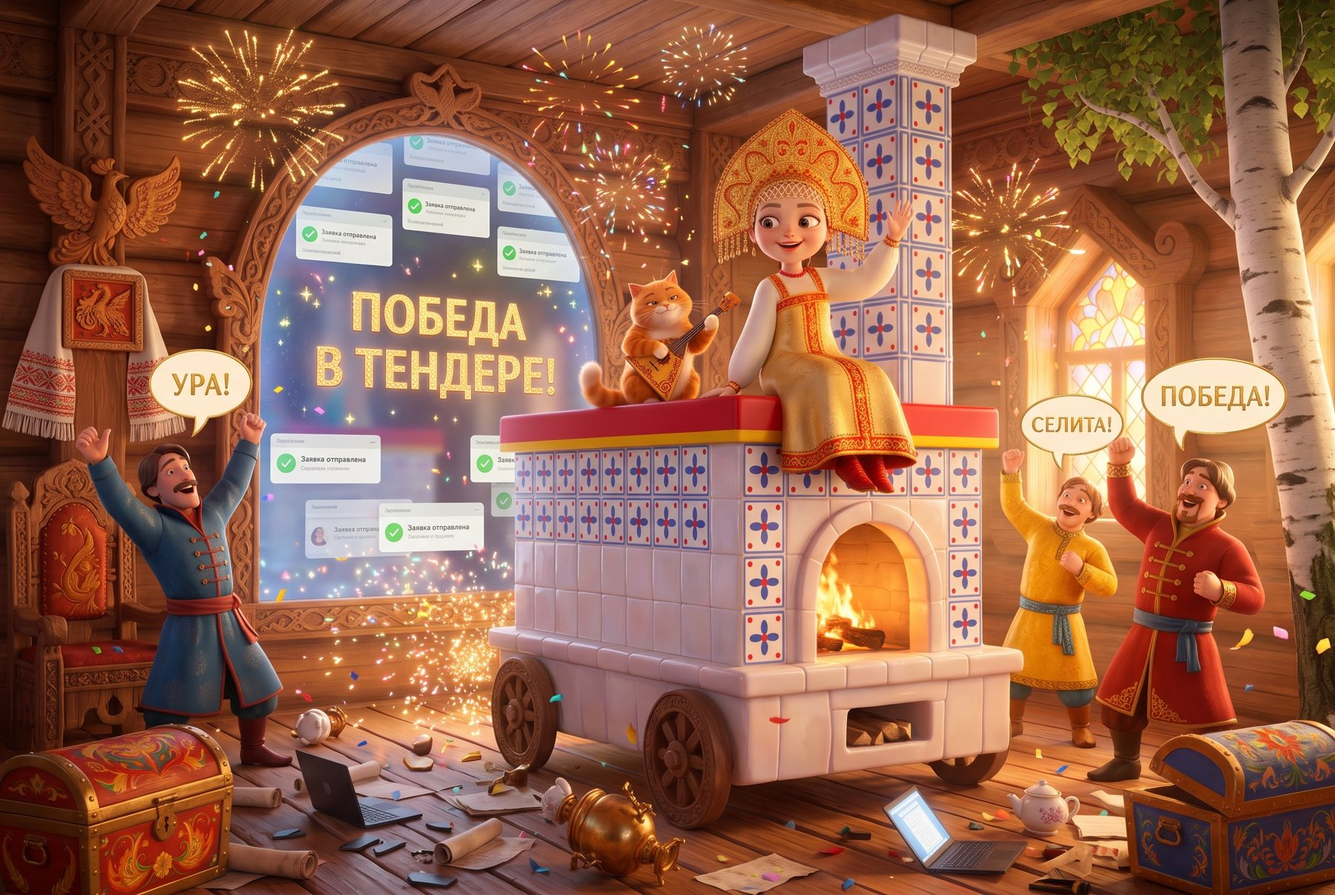
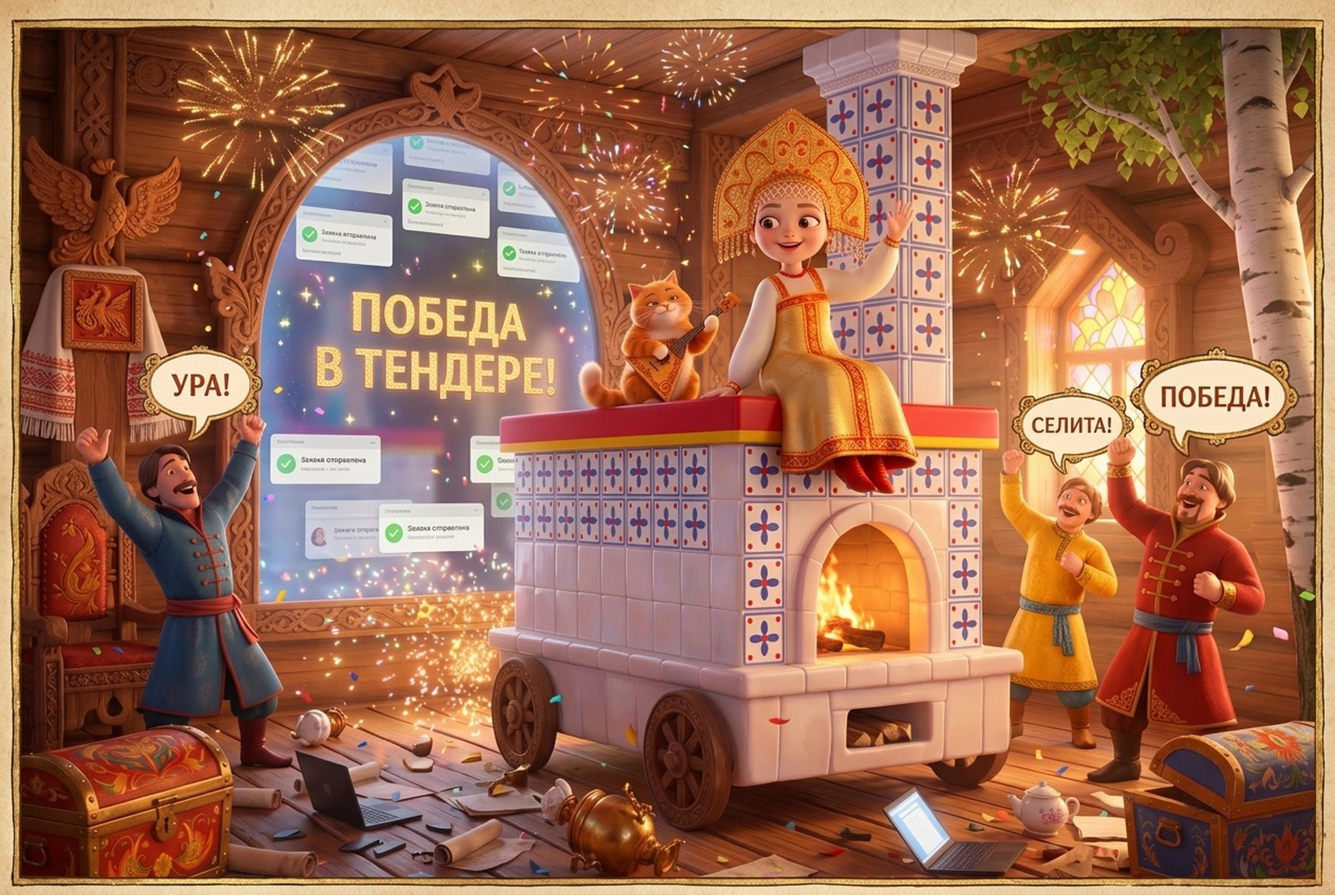
Превью: tender-pech-chistovik

diff --git a/tender-pech-chistovik/index.html b/tender-pech-chistovik/index.html
@@ -2,4 +2,4 @@
 <style>body{margin:0;background:#f6f1e7;font-family:system-ui,sans-serif;color:#222}h1{font-size:28px;margin:24px 16px 4px}p{margin:0 16px 20px;font-size:18px}
 main{display:grid;gap:28px;padding:0 16px 40px;max-width:1400px;margin:auto}figure{margin:0}img{width:100%;border-radius:12px;display:block}
 figcaption{font-size:24px;margin-top:8px}b{display:inline-block;background:#222;color:#fff;border-radius:50%;width:36px;height:36px;text-align:center;line-height:36px;margin-right:8px}</style></head>
-<body><h1>Тендер-печь: чистовая раскадровка</h1><p>Тёплый 3D, фирменная печь. Версия 4: меньше менеджеров, мудрецы 206, 208, 210 говорят по-доброму. Правки пиши по номерам кадров.</p><main><figure><img src="c01-galaktika.jpg?v=2" loading="lazy"><figcaption><b>1</b> Галактика</figcaption></figure><figure><img src="c02-moskva.jpg?v=2" loading="lazy"><figcaption><b>2</b> Полёт к Москве</figcaption></figure><figure><img src="c03-terem.jpg?v=2" loading="lazy"><figcaption><b>3</b> Терем «Тендерный отдел»</figcaption></figure><figure><img src="c04-tron.jpg?v=2" loading="lazy"><figcaption><b>4</b> Мария Прекрасная на троне</figcaption></figure><figure><img src="c04b-gde-smety.jpg?v=2" loading="lazy"><figcaption><b>5</b> «Где сметы?!»</figcaption></figure><figure><img src="c05-orda.jpg?v=4" loading="lazy"><figcaption><b>6</b> Орда менеджеров</figcaption></figure><figure><img src="c06-ploshchadki.jpg?v=2" loading="lazy"><figcaption><b>7</b> Площадки, тендеры уходят</figcaption></figure><figure><img src="c07-skoro.jpg?v=2" loading="lazy"><figcaption><b>8</b> «Скоро будет»</figcaption></figure><figure><img src="c08-mimo206.jpg?v=4" loading="lazy"><figcaption><b>9</b> Изба 206: «Добавим Jarvis!»</figcaption></figure><figure><img src="c09-izba208.jpg?v=4" loading="lazy"><figcaption><b>10</b> Изба 208</figcaption></figure><figure><img src="c10-izba210.jpg?v=4" loading="lazy"><figcaption><b>11</b> Изба 210</figcaption></figure><figure><img src="c11-chudo.jpg?v=2" loading="lazy"><figcaption><b>12</b> Появление печи</figcaption></figure><figure><img src="c12-pechet.jpg?v=2" loading="lazy"><figcaption><b>13</b> Печь печёт сметы</figcaption></figure><figure><img src="c13-rabota.jpg?v=3" loading="lazy"><figcaption><b>14</b> Работа за 15 минут</figcaption></figure><figure><img src="c14-final.jpg?v=2" loading="lazy"><figcaption><b>15</b> Финал: победа в тендере</figcaption></figure></main></body></html>
+<body><h1>Тендер-печь: чистовая раскадровка</h1><p>Тёплый 3D, фирменная печь. Версия 5: облачка везде в русском стиле, в кадре 8 спрашивает Маша, мудрец 206 в очках с кубком ИКЭМ, мудрец 210 без усов, один мотоцикл у избы 210 во всех кадрах. Правки пиши по номерам кадров.</p><main><figure><img src="c01-galaktika.jpg?v=2" loading="lazy"><figcaption><b>1</b> Галактика</figcaption></figure><figure><img src="c02-moskva.jpg?v=2" loading="lazy"><figcaption><b>2</b> Полёт к Москве</figcaption></figure><figure><img src="c03-terem.jpg?v=2" loading="lazy"><figcaption><b>3</b> Терем «Тендерный отдел»</figcaption></figure><figure><img src="c04-tron.jpg?v=2" loading="lazy"><figcaption><b>4</b> Мария Прекрасная на троне</figcaption></figure><figure><img src="c04b-gde-smety.jpg?v=5" loading="lazy"><figcaption><b>5</b> «Где сметы?!»</figcaption></figure><figure><img src="c05-orda.jpg?v=5" loading="lazy"><figcaption><b>6</b> Орда менеджеров</figcaption></figure><figure><img src="c06-ploshchadki.jpg?v=2" loading="lazy"><figcaption><b>7</b> Площадки, тендеры уходят</figcaption></figure><figure><img src="c07-skoro.jpg?v=5" loading="lazy"><figcaption><b>8</b> «Скоро будет»</figcaption></figure><figure><img src="c08-mimo206.jpg?v=5" loading="lazy"><figcaption><b>9</b> Изба 206: «Добавим Jarvis!»</figcaption></figure><figure><img src="c09-izba208.jpg?v=5" loading="lazy"><figcaption><b>10</b> Изба 208</figcaption></figure><figure><img src="c10-izba210.jpg?v=5" loading="lazy"><figcaption><b>11</b> Изба 210</figcaption></figure><figure><img src="c11-chudo.jpg?v=2" loading="lazy"><figcaption><b>12</b> Появление печи</figcaption></figure><figure><img src="c12-pechet.jpg?v=2" loading="lazy"><figcaption><b>13</b> Печь печёт сметы</figcaption></figure><figure><img src="c13-rabota.jpg?v=3" loading="lazy"><figcaption><b>14</b> Работа за 15 минут</figcaption></figure><figure><img src="c14-final.jpg?v=5" loading="lazy"><figcaption><b>15</b> Финал: победа в тендере</figcaption></figure></main></body></html>
